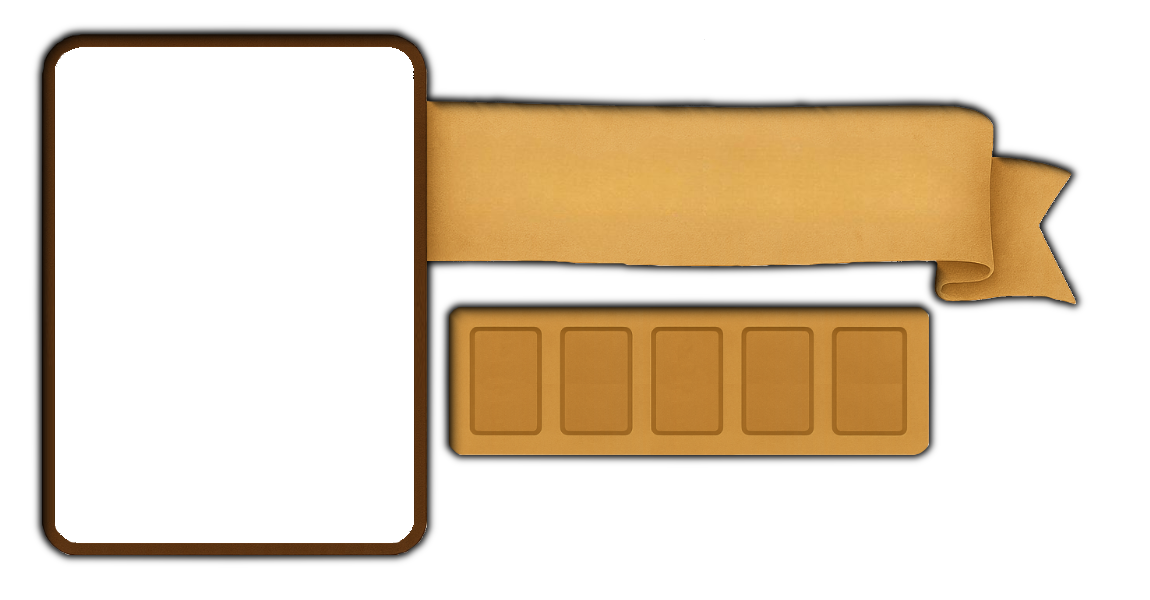
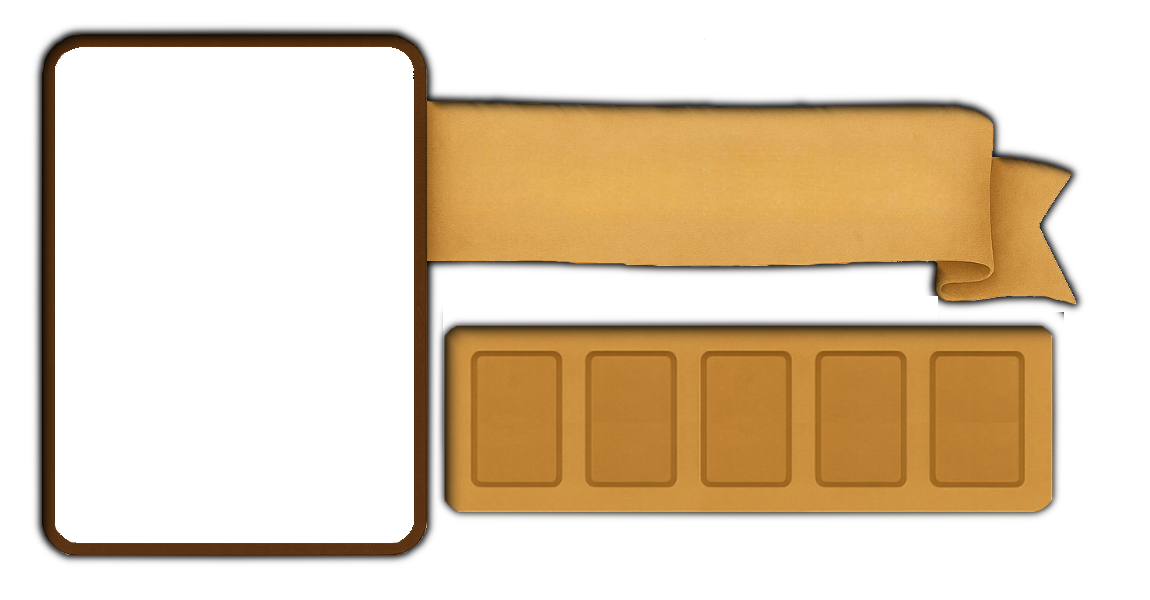
[Game] More changes and improvements

Changed region(s): [[0.3652, 0.48, 0.9435, 0.87]]

diff --git a/js/scenes/GameOverScene.js b/js/scenes/GameOverScene.js
@@ -12,6 +12,12 @@ class GameOverScene extends Phaser.Scene {
         const winner = this.registry.get('winner');
         const players = this.registry.get('players');
 
+        // Responsive font sizes
+        const titleSize = Math.floor(height * 0.10);
+        const subtitleSize = Math.floor(height * 0.05);
+        const textSize = Math.floor(height * 0.04);
+        const smallTextSize = Math.floor(height * 0.035);
+
         // Fade in
         this.cameras.main.fadeIn(300);
 
@@ -20,36 +26,38 @@ class GameOverScene extends Phaser.Scene {
 
         // Title
         const isHumanWinner = winner && winner.id === 0;
-        const titleText = isHumanWinner ? 'Victoria!' : 'Partida Terminada';
+        const titleText = isHumanWinner ? '¡Victoria!' : 'Partida Terminada';
         const titleColor = isHumanWinner ? '#e6c870' : '#b8b0a0';
 
-        this.add.text(width / 2, height * 0.15, titleText, {
-            fontFamily: 'Georgia, serif',
-            fontSize: Math.floor(height * 0.08) + 'px',
+        this.add.text(width / 2, height * 0.12, titleText, {
+            fontFamily: 'Cinzel, Georgia, serif',
+            fontSize: titleSize + 'px',
             color: titleColor,
             fontStyle: 'bold'
         }).setOrigin(0.5);
 
         // Winner announcement
         if (winner) {
-            this.add.text(width / 2, height * 0.25, `Ganador: ${winner.name}`, {
-                fontFamily: 'Arial, sans-serif',
-                fontSize: '24px',
+            this.add.text(width / 2, height * 0.22, `Ganador: ${winner.name}`, {
+                fontFamily: 'Georgia, serif',
+                fontSize: subtitleSize + 'px',
                 color: '#e6c870'
             }).setOrigin(0.5);
 
-            // Winner character
+            // Winner character image
             if (winner.character) {
-                this.add.image(width / 2, height * 0.45, winner.character.id)
-                    .setDisplaySize(150, 200);
+                const charImg = this.add.image(width / 2, height * 0.42, winner.character.id);
+                const imgScale = (height * 0.28) / charImg.height;
+                charImg.setScale(imgScale);
             }
         }
 
-        // Final scores
-        this.add.text(width / 2, height * 0.65, 'Puntuaciones Finales', {
-            fontFamily: 'Arial, sans-serif',
-            fontSize: '20px',
-            color: '#b8b0a0'
+        // Final scores header
+        this.add.text(width / 2, height * 0.62, 'Puntuaciones Finales', {
+            fontFamily: 'Georgia, serif',
+            fontSize: textSize + 'px',
+            color: '#b8b0a0',
+            fontStyle: 'bold'
         }).setOrigin(0.5);
 
         // Player scores
@@ -61,34 +69,39 @@ class GameOverScene extends Phaser.Scene {
                 return vpB - vpA;
             });
 
+            const rowSpacing = height * 0.055;
             sortedPlayers.forEach((player, index) => {
-                const y = height * 0.72 + index * 35;
+                const y = height * 0.69 + index * rowSpacing;
                 const vp = player.getVictoryPoints ? player.getVictoryPoints() : 0;
                 const isWinner = winner && player.id === winner.id;
+                const color = isWinner ? '#e6c870' : '#888888';
 
                 this.add.text(width * 0.35, y, player.name, {
                     fontFamily: 'Arial, sans-serif',
-                    fontSize: '18px',
-                    color: isWinner ? '#e6c870' : '#888888'
+                    fontSize: smallTextSize + 'px',
+                    color: color
                 }).setOrigin(0, 0.5);
 
                 this.add.text(width * 0.65, y, `${vp} VP`, {
                     fontFamily: 'Arial, sans-serif',
-                    fontSize: '18px',
-                    color: isWinner ? '#e6c870' : '#888888'
+                    fontSize: smallTextSize + 'px',
+                    color: color,
+                    fontStyle: 'bold'
                 }).setOrigin(1, 0.5);
             });
         }
 
-        // New game button
-        const btnY = height * 0.9;
-        const btn = this.add.rectangle(width / 2, btnY, 180, 45, 0x8b3545)
+        // Back to menu button
+        const btnWidth = Math.floor(width * 0.25);
+        const btnHeight = Math.floor(height * 0.07);
+        const btnY = height * 0.92;
+        const btn = this.add.rectangle(width / 2, btnY, btnWidth, btnHeight, 0x8b3545)
             .setStrokeStyle(2, 0xe6c870)
             .setInteractive({ useHandCursor: true });
 
-        this.add.text(width / 2, btnY, 'Nueva Partida', {
-            fontFamily: 'Arial, sans-serif',
-            fontSize: '18px',
+        this.add.text(width / 2, btnY, 'Volver al Menú', {
+            fontFamily: 'Georgia, serif',
+            fontSize: smallTextSize + 'px',
             color: '#ffffff'
         }).setOrigin(0.5);
 

diff --git a/js/ui/PlayerHUD.js b/js/ui/PlayerHUD.js
@@ -136,6 +136,13 @@ class PlayerHUD extends Phaser.GameObjects.Container {
         }).setOrigin(0, 0.5);
         this.add(this.vpText);
 
+        // Treasure leader badge - after VP (hidden by default)
+        const badgeX = vpX + fontMd * 3.5;
+        this.treasureBadge = scene.add.image(badgeX, infoY, 'badge');
+        this.fitImageToArea(this.treasureBadge, fontMd * 1.2, fontMd * 1.2);
+        this.treasureBadge.setVisible(false);
+        this.add(this.treasureBadge);
+
         // === RESOURCE SLOTS (5 slots in bottom tray) ===
         this.createResourceSlots(scene, hudWidth, hudHeight);
 
@@ -152,18 +159,14 @@ class PlayerHUD extends Phaser.GameObjects.Container {
     createResourceSlots(scene, hudWidth, hudHeight) {
         const L = this.layout;
 
-        // EXACT coordinates from player_hud.png (1150x600):
-        // User provided TOP-LEFT of each placeholder: (473,331), (564,331), (655,331), (745,331), (837,331)
-        // Slot size: 91x140px, Resource image size: 66x100px
-        // Position resources toward TOP-LEFT of slot (not centered)
-        // Top-left aligned with small padding: slot.x + 38, slot.y + 53 (instead of center at slot.x + 45.5, slot.y + 70)
-        // Percentages: Land=(473+38)/1150=44.43%, (331+53)/600=64.00%
-        const slotPositionsX = [0.4443, 0.5235, 0.6026, 0.6809, 0.7609];  // Shifted left ~0.7%
-        const slotCenterY = hudHeight * 0.14;  // 14% below center (64% from top, was 66.83%)
+        const slotPositionsX = [0.445, 0.545, 0.645, 0.745, 0.846];
+        const slotCenterY = hudHeight * 0.194;
+        const slotWidth = hudWidth * 0.0727;
+        const slotHeight = hudHeight * 0.2104;
 
-        // Resource image size: 66x100 in 1150x600 = 5.74% x 16.67%
-        const slotWidth = hudWidth * 0.0574;
-        const slotHeight = hudHeight * 0.1667;
+        // Store for repositioning count texts when active
+        this.slotCenterY = slotCenterY;
+        this.slotHeight = slotHeight;
 
         // 5 resources: land, cultivated land, inn, destroyed inn, treasure
         const resources = [
@@ -201,7 +204,7 @@ class PlayerHUD extends Phaser.GameObjects.Container {
             }
 
             // Count text below the resource icon (gold color)
-            const countY = slotCenterY + slotHeight / 2 + 30;
+            const countY = slotCenterY + slotHeight / 2 + 38;
             const countText = scene.add.text(slotX, countY, '0', {
                 fontFamily: 'Arial, sans-serif',
                 fontSize: L.fontSizeSmall + 'px',
@@ -268,6 +271,16 @@ class PlayerHUD extends Phaser.GameObjects.Container {
         const vp = (player.getVictoryPoints && game) ? player.getVictoryPoints(game) : 0;
         this.vpText.setText(`${vp} VP`);
 
+        // Update treasure leader badge
+        if (this.treasureBadge && game && game.players) {
+            const myTreasures = player.treasures ? player.treasures.length : 0;
+            const isLeader = myTreasures >= 2 && game.players.every(p => {
+                const otherTreasures = p.treasures ? p.treasures.length : 0;
+                return p.id === player.id || otherTreasures < myTreasures;
+            });
+            this.treasureBadge.setVisible(isLeader);
+        }
+
         // Update coins
         if (this.coinsText) {
             this.coinsText.setText(player.coins.toString());
@@ -323,6 +336,28 @@ class PlayerHUD extends Phaser.GameObjects.Container {
                 this.setY(newY);
             }
         }
+
+        // Reposition resource count texts based on active state
+        this.repositionResourceCounts(active);
+    }
+
+    repositionResourceCounts(active) {
+        if (!this.resourceTexts || !this.slotCenterY) return;
+
+        // Counts below icons for both states
+        const offset = active ? (this.slotHeight / 2 + 45) : (this.slotHeight / 2 + 38);
+        const targetY = this.slotCenterY + offset;
+
+        Object.values(this.resourceTexts).forEach(text => {
+            if (text && this.scene) {
+                this.scene.tweens.add({
+                    targets: text,
+                    y: targetY,
+                    duration: 200,
+                    ease: 'Power2'
+                });
+            }
+        });
     }
 
     hideResourceCounts() {

diff --git a/js/config/resolution-config.js b/js/config/resolution-config.js
@@ -1,16 +1,10 @@
 // Resolution presets for the game (16:9 aspect ratio)
 const RESOLUTION_PRESETS = {
-    low: {
-        width: 640,
-        height: 360,
-        label: '640x360 (Bajo)',
-        description: 'Para dispositivos de baja potencia'
-    },
     mediumLow: {
         width: 854,
         height: 480,
-        label: '854x480 (Medio-Bajo)',
-        description: 'Para dispositivos de potencia media-baja'
+        label: '854x480 (Bajo)',
+        description: 'Para dispositivos de potencia baja'
     },
     reference: {
         width: 1280,
@@ -23,6 +17,12 @@ const RESOLUTION_PRESETS = {
         height: 1080,
         label: '1920x1080 (Full HD)',
         description: 'Para dispositivos de alta potencia'
+    },
+    ultraHigh: {
+        width: 2560,
+        height: 1440,
+        label: '2560x1440 (QHD)',
+        description: 'Para pantallas 2K/Retina'
     }
 };
 
@@ -33,14 +33,14 @@ function detectBestResolution() {
     const maxDimension = Math.max(screenWidth, screenHeight);
 
     // Select resolution based on available screen real estate
-    if (maxDimension >= 1920) {
+    if (maxDimension >= 2560) {
+        return 'ultraHigh';
+    } else if (maxDimension >= 1920) {
         return 'high';
     } else if (maxDimension >= 1280) {
         return 'reference';
-    } else if (maxDimension >= 854) {
-        return 'mediumLow';
     }
-    return 'low';
+    return 'mediumLow';
 }
 
 // Get current resolution preset

diff --git a/js/ui/ModalManager.js b/js/ui/ModalManager.js
@@ -297,9 +297,11 @@ class ModalManager {
             }
         };
 
-        // Listen for fullscreen changes (e.g., user presses Escape)
-        const fullscreenHandler = () => updateFullscreenButton(this.scene.scale.isFullscreen);
-        this.scene.scale.on('fullscreenchange', fullscreenHandler);
+        // Listen for fullscreen changes
+        const onEnterFs = () => updateFullscreenButton(true);
+        const onLeaveFs = () => updateFullscreenButton(false);
+        this.scene.scale.on('enterfullscreen', onEnterFs);
+        this.scene.scale.on('leavefullscreen', onLeaveFs);
 
         this.show({
             title: 'Ajustes',
@@ -424,7 +426,8 @@ class ModalManager {
                 container.add([backBtn, backText]);
             },
             onClose: () => {
-                this.scene.scale.off('fullscreenchange', fullscreenHandler);
+                this.scene.scale.off('enterfullscreen', onEnterFs);
+                this.scene.scale.off('leavefullscreen', onLeaveFs);
             }
         });
     }

diff --git a/js/game/GremiosGame.js b/js/game/GremiosGame.js
@@ -541,13 +541,16 @@ class GremiosGame extends SimpleEventEmitter {
         let sum;
         if (useExistingRoll && this.lastDiceRoll) {
             sum = this.lastDiceRoll.sum;
+            this.log(`Expedition using existing roll: ${sum}`, 'expedition');
         } else {
             const dice = rollDice();
             sum = dice.sum;
             this.emit('diceRolled', dice);
+            this.log(`Expedition new roll: ${dice.die1} + ${dice.die2} = ${sum}`, 'expedition');
         }
 
         const success = sum >= 6 && sum <= 8;
+        this.log(`Expedition result: sum=${sum}, success=${success} (needs 6-8)`, 'expedition');
 
         if (success) {
             for (let investment of this.expedition.investments) {

diff --git a/js/utils/constants.js b/js/utils/constants.js
@@ -114,13 +114,13 @@ const BOARD = {
         3:  { x: 22.17, y: 27.23 },
         4:  { x: 41.83, y: 27.23 },
         5:  { x: 61.67, y: 27.23 },
-        6:  { x: 81.42, y: 27.23 },
+        8:  { x: 81.42, y: 27.23 },  // Tavern (swapped with Farm)
         // Bottom row (Y: 77.27%)
         12: { x: 2.50,  y: 77.27 },
         11: { x: 22.17, y: 77.27 },
         10: { x: 41.83, y: 77.27 },
         9:  { x: 61.67, y: 77.27 },
-        8:  { x: 81.42, y: 77.27 }
+        6:  { x: 81.42, y: 77.27 }   // Farm (swapped with Tavern)
     },
 
     // Blocking event positions (middle row, Y: 52.25%)

diff --git a/js/scenes/GameScene.js b/js/scenes/GameScene.js
@@ -9,6 +9,13 @@ class GameScene extends Phaser.Scene {
     create() {
         const { width, height } = this.cameras.main;
 
+        // Reset state for new game session
+        this.characterSelected = false;
+        if (this.game_instance) {
+            this.game_instance.removeAllListeners();
+            this.game_instance = null;
+        }
+
         // Get scaled layout values
         this.layout = getScaledLayout(width, height);
 

diff --git a/index.html b/index.html
@@ -5,6 +5,7 @@
     <meta name="viewport" content="width=device-width, initial-scale=1.0, user-scalable=no">
     <title>Gremios</title>
     <meta name="description" content="Juego de cartas estrategico de gremios medievales">
+    <link rel="icon" type="image/png" href="assets/images/ui/gold.png">
     <link rel="stylesheet" href="css/game.css">
 </head>
 <body>

diff --git a/js/game/EventHandler.js b/js/game/EventHandler.js
@@ -30,6 +30,9 @@ class EventHandler {
         this.game.activeGuilds.push(guild);
         this.game.activeGuilds.sort((a, b) => a.number - b.number);
 
+        // Apply blocking from active temporary events to new guild
+        this.updateGuildBlocking();
+
         return `Se funda el gremio: ${guild.name} (${guild.number})`;
     }
 

diff --git a/js/utils/helpers.js b/js/utils/helpers.js
@@ -164,4 +164,9 @@ class SimpleEventEmitter {
         };
         return this.on(event, onceWrapper);
     }
+
+    removeAllListeners() {
+        this._events = {};
+        return this;
+    }
 }
